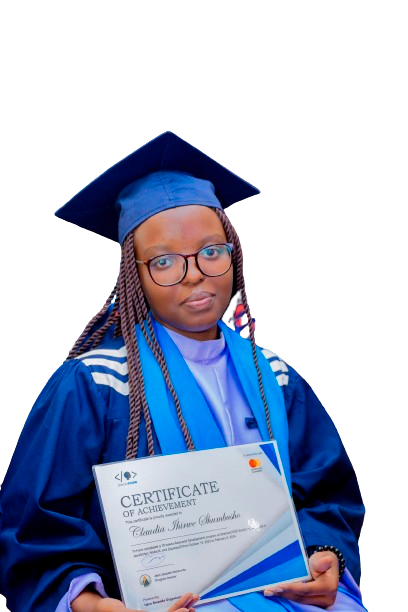
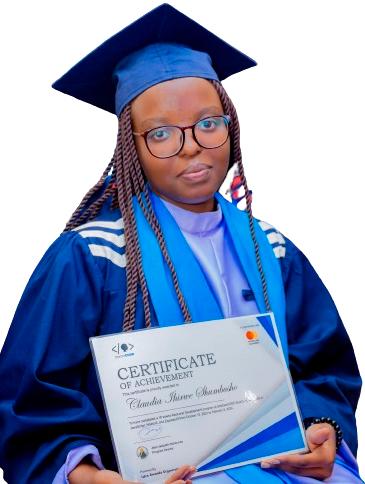
Refactoring: Improved slogan description section

diff --git a/components/HomeSloganSection.jsx b/components/HomeSloganSection.jsx
@@ -1,37 +1,35 @@
 import React from 'react';
-import Image from 'next/image';
-import graduationImage from '/public/claudia.png';
+import Link from 'next/link';
 
-const HomeSloganSection = () => {
+const HomeSloganSection = ({ sloganDescriptionData }) => {
+    
     return (
-        <section
-            className="bg-gradient-to-r from-green-100 to-blue-100 h-auto mx-auto md:h-full overflow-hidden flex flex-col items-center justify-center"
-            style={{ backgroundImage: 'url("/frame3.png")', backgroundSize: 'cover' }}>
-            <div className='max-w-screen-xl mx-auto grid grid-cols-1 lg:grid-cols-2 gap-12 items-center place-content-center py-8'>
+        <section className="bg-gradient-to-r from-blue-400 to-blue-100 h-auto mx-auto md:h-full overflow-hidden flex flex-col items-center justify-center">
+            <div className='max-w-screen-xl mx-auto grid grid-cols-1 lg:grid-cols-2 gap-12 items-center place-content-center py-8 md:py-16'>
                 <div className="z-10 justify-center md:block hidden">
                     <div className="flex justify-center items-center">
-                        <Image
-                            src={graduationImage}
-                            alt="Graduate"
-                            className="rounded-lg w-[60%] max-w-[554px]"
+                        <img
+                            src={`/${sloganDescriptionData.image.source}`}
+                            alt={sloganDescriptionData.image.alt}
+                            className="rounded-lg w-3/4"
                         />
                     </div>
                 </div>
 
-                <div className="flex items-center place-content-center py-8 md:mt-1 md:pt-7">
+                <div className="flex items-center place-content-center py-0 md:py-8 md:mt-1 md:pt-7">
                     <div className="flex flex-col gap-4 justify-start items-start text-left px-4">
                         <div className="flex flex-col gap-2 w-full">
-                            <h1 className="text-[40px] md:text-5xl font-semibold text-[#333333] mb-4">
-                                We are <span className="text-[#317ACC] relative underline-experts">Experts</span> Learning Institution
+                            <h1 className="text-3xl md:text-4xl font-semibold text-[#333333] mb-4">
+                                {sloganDescriptionData.title}
                             </h1>
                         </div>
-                        <div className="text-xl md:text-xl text-[#0B2B4E] w-full font-light">
-                            <p>Lorem ipsum dolor sit amet, consectetur adipiscing elit. Sit elit, bibendum volutpat platea mi, adipiscing eget magna. Eu nulla ut urna venenatis velit et tincidunt. Id vitae velit.</p>
+                        <div className="text-base md:text-xl text-[#0B2B4E] w-full font-light">
+                            <p>{sloganDescriptionData.description}</p>
                         </div>
-                        <div className="flex justify-start">
-                            <button className="bg-[#317ACC] px-8 py-2 md:px-8 md:py-4 text-white rounded-md mt-6 transition duration-300 hover:bg-[#255a9e]">
-                                Enroll now
-                            </button>
+                        <div className="flex justify-start mt-2">
+                            <Link href={sloganDescriptionData.button.location} className="bg-[#317ACC] py-3 px-6 w-full md:w-fit text-white rounded-md hover:bg-[#296494]">
+                                {sloganDescriptionData.button.label}
+                            </Link>
                         </div>
                     </div>
                 </div>

diff --git a/app/page.jsx b/app/page.jsx
@@ -1,5 +1,4 @@
 import HomeBanner from "../components/HomeBanner";
-import Statics from "../components/Statics";
 import React from 'react'
 import HomeSloganSection from "../components/HomeSloganSection";
 import CourseList from "../components/CourseList";
@@ -8,6 +7,7 @@ import ReviewsCarousel from "../components/review/reviewCaresoul";
 import PartnersSection from "../components/Partners";
 import Faq from "../components/faq/fap";
 import Slogan from "../components/slogan";
+import Statistics from "../components/Statics";
 
 
 const page = () => {
@@ -46,6 +46,19 @@ const page = () => {
     }
   };
 
+  const sloganDescriptionData = {
+    image: {
+      source: "blog-sm.jpg",
+      alt: "Graduate"
+    },
+    title: "We're here to help you transform your career",
+    description: "Our mission is to empower women in technology by providing them with the tools and resources they need to succeed. Research on Bruce H. Lipton, Ph.D. an Epigeneticist. Bruce Lipton is an American developmental biologist known for promoting the idea that genes and DNA can be manipulated by a person's beliefs. He is also known for his work on epigenetics.",
+    button: {
+      label: "Enroll now",
+      location: "/courses"
+    },
+  }
+
   return (
     <>
       <HomeBanner
@@ -57,11 +70,11 @@ const page = () => {
         statistics={stats}
       />
       <Slogan />
-      <CourseList />
-      <HomeSloganSection />
-      <Statics />
+      {/* <CourseList /> */}
+      <HomeSloganSection sloganDescriptionData={sloganDescriptionData}/>
+      <Statistics />
       <EducationWalkSection />
-      <ReviewsCarousel />
+      {/* <ReviewsCarousel /> */}
       <PartnersSection />
       <Faq />
     </>

diff --git a/components/Navbar/Navbar.jsx b/components/Navbar/Navbar.jsx
@@ -28,9 +28,9 @@ const Navbar = () => {
 
   return (
     // <nav className={`${(scrolled && screenSize <= 796) ? 'bg-white bg-opacity-100' : 'bg-white bg-opacity-0 border-none text-white'} w-full max-w-screen-2xl mx-auto z-50 fixed border-b`}>
-    <nav className={`${scrolled && 'bg-white bg-opacity-100'} ${!scrolled && 'bg-white bg-opacity-0 border-none text-white'} w-full max-w-screen-2xl mx-auto z-50 fixed border-b`}>
-      <div className="flex items-center font-medium justify-around">
-        <div className="z-50 p-5 md:w-auto w-full flex justify-between">
+    <nav className={`${scrolled && 'bg-white bg-opacity-100'} ${!scrolled && 'bg-white bg-opacity-0 border-none text-white'} w-full z-50 fixed border-b`}>
+      <div className="flex items-center font-medium justify-around mx-auto max-w-screen-2xl">
+        <div className="z-50 p-4 md:p-0 md:w-auto w-full flex justify-between">
           <Link href={'/'} onClick={() => setOpen(false)}>
             <Image src={LogoImage} alt="" className="h-9 w-auto md:cursor-pointer" />
           </Link>

diff --git a/components/Statics.jsx b/components/Statics.jsx
@@ -4,7 +4,7 @@ import React, { useEffect, useState } from 'react';
 import Image from 'next/image';
 // const clientAddress = process.env.NEXT_PUBLIC_ADDRESS;
 
-const Statics = () => {
+const Statistics = () => {
   const [statistics, setStatistics] = useState([]);
 
   useEffect(() => {
@@ -56,4 +56,4 @@ const Statics = () => {
   )
 }
 
-export default Statics;
+export default Statistics;

diff --git a/app/layout.js b/app/layout.js
@@ -36,7 +36,7 @@ export default function RootLayout({ children }) {
         <link href="https://fonts.googleapis.com/css2?family=K2D&display=swap" rel="stylesheet" />
       </head>
       {/* </Head> */}
-      <body className="">
+      <body className="flex flex-col justify-start">
         {isDashboard ? null : <Navbar />}
         <div>
           {children}
